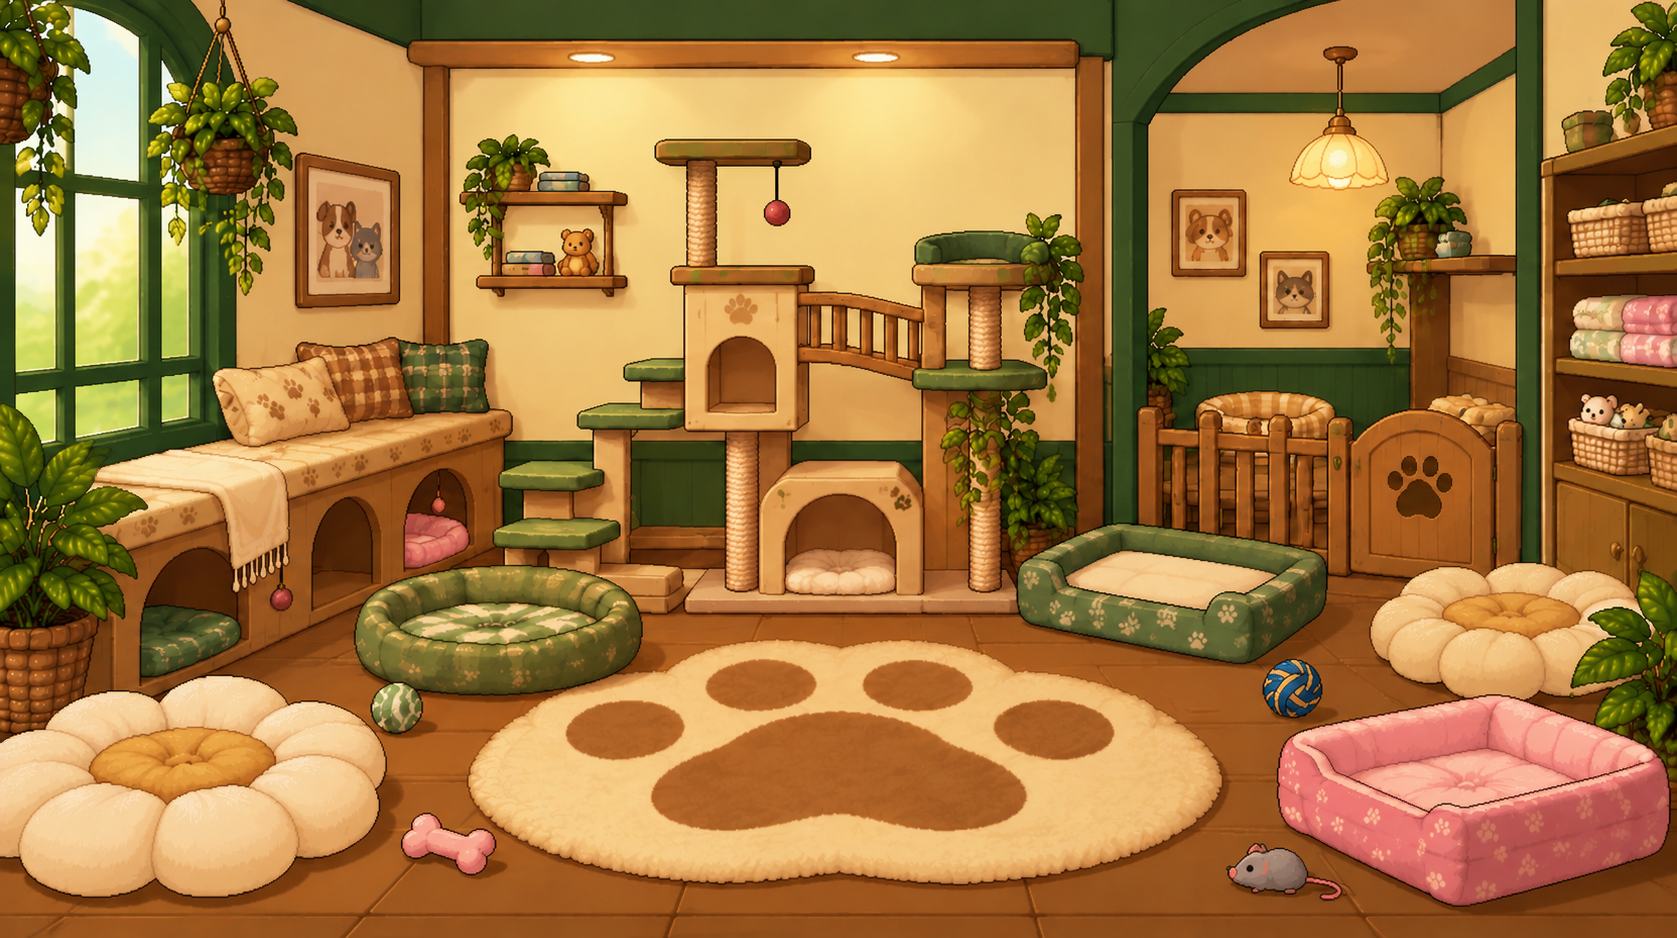
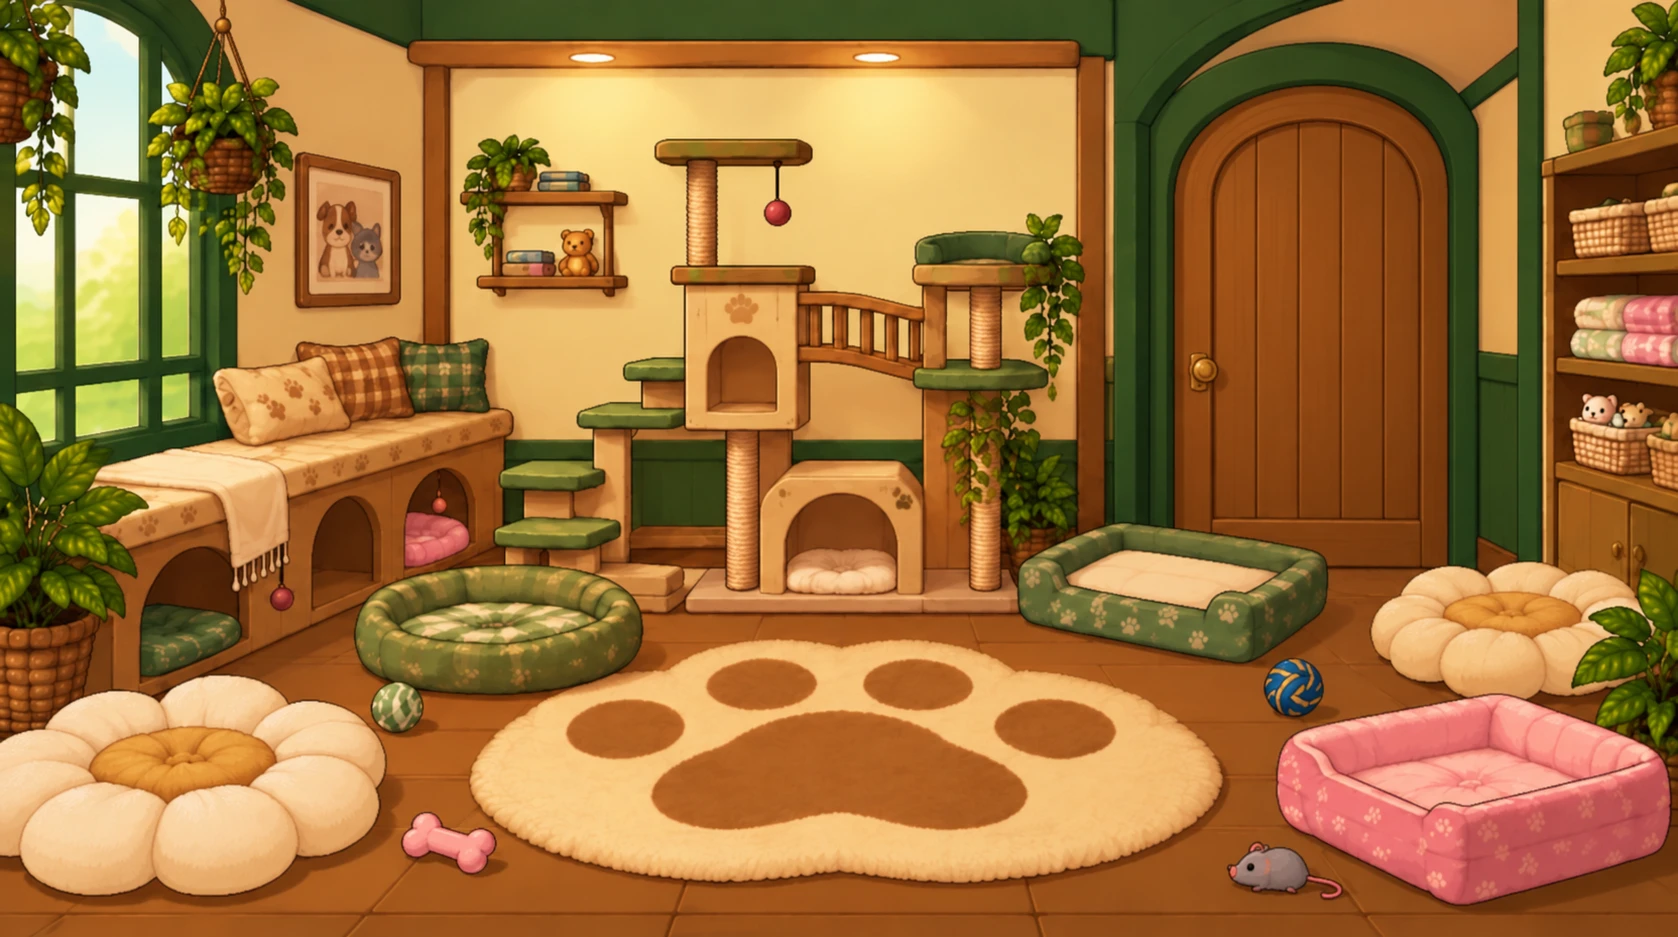
Foster Center: new picture, the door on the right leads back to the pet shop (back button removed)
Claude-Session: https://claude.ai/code/session_01KbwSo6yL3mitC5MkkWGPtA

diff --git a/src/screens/FosterScreen.js b/src/screens/FosterScreen.js
@@ -6,7 +6,7 @@ import { STRAYS, FOSTER_SEATS, strayFits, FOSTER_SIZE, FOSTER_BASE_W, CUSTOMERS 
 import ScreenHud from '../components/ScreenHud';
 import InventoryOverlay from '../components/InventoryOverlay';
 import PetSprite from '../components/PetSprite';
-import { PixelText, PixelPanel, PixelButton } from '../components/Pixel';
+import { PixelText, PixelPanel } from '../components/Pixel';
 import PetTag from '../components/PetTag';
 import { AdoptModal } from '../components/PetCard';
 
@@ -80,9 +80,17 @@ export default function FosterScreen({ navigation }) {
         </View>
       )}
 
-      <View style={styles.back}>
-        <PixelButton label="< PET SHOP" tone="wood" size={8} onPress={() => navigation.navigate('PetShop')} />
-      </View>
+      {/* the door on the right leads back into the pet shop */}
+      {sw > 0 && (
+        <Pressable
+          style={{ position: 'absolute', left: fx(1150), top: fy(70), width: fx(1480 - 1150), height: fy(580 - 70), zIndex: 6 }}
+          onHoverIn={() => setHovered('door')}
+          onHoverOut={() => setHovered((h) => (h === 'door' ? null : h))}
+          onPress={() => navigation.navigate('PetShop')}
+        >
+          <View style={[styles.tagWrap, { top: '30%' }]} pointerEvents="none"><PetTag show={hovered === 'door'} label="PET SHOP" /></View>
+        </Pressable>
+      )}
 
       <ScreenHud sw={sw} sh={sh} onSettings={() => navigation.navigate('Settings')} onMap={() => navigation.navigate('Map')} onInventory={() => setInvOpen(true)} />
 
